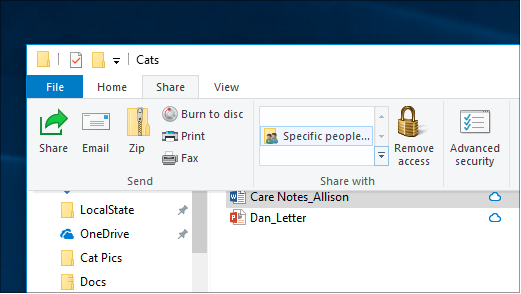
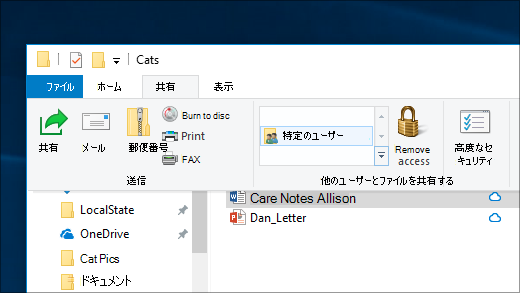
commit translated contents

diff --git a/AlchemyInsights/double-clicking-an-office-file-fails-to-open-it.md b/AlchemyInsights/double-clicking-an-office-file-fails-to-open-it.md
@@ -1,5 +1,5 @@
 ---
-title: Office ファイルをダブルクリックしても開くことができない
+title: Office ファイルをダブルクリックしても開かない
 ms.author: pebaum
 author: pebaum
 manager: mnirkhe
@@ -13,17 +13,17 @@ ms.custom:
 - "161"
 ms.openlocfilehash: cd45d64108bc3d7b8f35b51389294f5b8253ba9c
 ms.sourcegitcommit: 6df4460313ca033d18b59669506de1dbb7482ef9
-ms.translationtype: MT
+ms.translationtype: HT
 ms.contentlocale: ja-JP
 ms.lasthandoff: 03/10/2020
 ms.locfileid: "42575401"
 ---
-# <a name="double-clicking-an-office-file-fails-to-open-it"></a>Office ファイルをダブルクリックしても開くことができない
+# <a name="double-clicking-an-office-file-fails-to-open-it"></a>Office ファイルをダブルクリックしても開かない
 
-Office ファイルをダブルクリックすると、プログラムが開かれているように見えますが、ファイル自体は開かれません。 または、「プログラムにコマンドを送信するときに問題が発生しました」というエラーが表示されることがあります。 これには多くの原因がありますが、最も一般的なソリューションは次の2つです。
+Office ファイルをダブルクリックしたあとで、プログラムは開くことができても、ファイル自体が開かないことがあります。 または、「プログラムにコマンドを送信しているときに、エラーが発生しました。」というエラーが表示されることがあります。 これらは多くの原因が考えられますが、一般的な解決策は次の 2 つです。
 
-- Excel で、[DDE] オプションがオフになっていることを確認します。 このオプションを確認するには、新しいブックを作成し、[**ファイル > オプション > Advanced**を選択します。 **[全般**] セクションで、[**動的データ交換 (DDE) を使用している他のアプリケーションを無視**する] をオフにします。
+- Excel で、DDE オプションがオフになっていることを確認します。 このオプションを確認するには、新しいブックを作成し、**[ファイル] > [オプション] > [詳細設定]** を選びます。 **[全般]** セクションの **[Dynamic Data Exchange (DDE) を使用する他のアプリケーションを無視する]** をオフにします。
 
-- オンライン修復を実行して、既定の設定を復元します。 Windows の [スタート] ボタンをクリックし、[コントロールパネル] を検索します。 **コントロールパネル**を開き、[**プログラム > プログラムと機能**] に移動します。 [ **Microsoft Office [バージョン]]** を右クリックし、[ **Change > Online Repair**] を選択します。
+- オンライン修復を実行して、既定の設定を復元します。 Windows の [スタート] ボタンをクリックし、[コントロール パネル] を検索します。 **[コントロール パネル]** を開き、**[プログラム] > [プログラムと機能]** に移動します。 次に、**Microsoft Office [バージョン]** を右クリックし、**[変更] > [オンライン修復]** を選択します。
 
-これらのソリューションのいずれも機能しない場合は、ソリューションの完全な一覧については、「サポート」の記事「 [Office ファイルをダブルクリックしても開く](https://support.office.com/article/Double-clicking-an-Office-file-fails-to-open-it-1e9c0ad9-34c8-4440-a42e-d30186b29ed6)ことができない」を参照してください。
+これらの方法で解決しない場合は、サポート記事「[Office ファイルをダブルクリックしても開かない](https://support.office.com/article/Double-clicking-an-Office-file-fails-to-open-it-1e9c0ad9-34c8-4440-a42e-d30186b29ed6)」の中から解決策をお探しください。

diff --git a/AlchemyInsights/use-fingerprint-unlock-option-in-windows.md b/AlchemyInsights/use-fingerprint-unlock-option-in-windows.md
@@ -1,0 +1,55 @@
+---
+title: Windows 10 で指紋ロック解除オプションを使う
+ms.author: pebaum
+author: pebaum
+manager: mnirkhe
+ms.audience: Admin
+ms.topic: article
+ROBOTS: NOINDEX, NOFOLLOW
+localization_priority: Normal
+ms.collection: Adm_O365
+ms.custom:
+- "9001689"
+- "3765"
+ms.openlocfilehash: 8a5059c722c306ad79811140062cec7f52f31766
+ms.sourcegitcommit: 00e4266575438f55bdc18db05ed54aafcb75a3c9
+ms.translationtype: HT
+ms.contentlocale: ja-JP
+ms.lasthandoff: 03/11/2020
+ms.locfileid: "42592571"
+---
+# <a name="use-fingerprint-unlock-option-in-windows-10"></a>Windows 10 で指紋ロック解除オプションを使う
+
+**Windows Hello 指紋認証を有効にする**
+
+指紋を使用して Windows 10 のロックを解除するには、Windows Hello 指紋認証を設定する必要があります。これには少なくとも 1 本の指を追加 (Windows に登録) します。 
+
+1. **[設定] > [アカウント] > [サインイン オプション]** に移動します (または[こちら](ms-settings:signinoptions?activationSource=GetHelp)をクリックします)。 利用可能なサインイン オプションが表示されます。 例:
+
+    ![サインイン オプション。](media/sign-in-options.png)
+
+2. **[Windows Hello 指紋認証]** をクリックまたはタップし、次に **[設定]** をクリックします。 Windows Hello 設定ウィンドウで、**[開始する]** をクリックします。 指紋センサーがアクティブになり、このセンサーに指を合わせるように求められます。
+
+   ![指紋センサー。](media/fingerprint-sensor.png)
+
+3. 指示に従って、指を繰り返しスキャンします。 これが完了したら、サインインに使用する可能性がある他の指を追加するオプションが表示されます。 次回 Windows 10 にサインインするときには、指紋を利用してサインインできます。
+
+**サインイン オプションとして、Windows Hello 指紋認証が利用できない**
+
+Windows Hello 指紋認証が**サインイン オプション**に表示されていない場合は、Windows が PC に接続されている指紋リーダーやスキャナーを認識していないか、システム ポリシーがその利用を認めていないということです (たとえば、PC が職場で管理されている場合など)。 トラブルシューティング: 
+
+1. タスク バーの **[スタート]** ボタンを選択し、**[デバイス マネージャー]** を探します。
+
+2. クリックまたはタップし、**[デバイス マネージャー]** を開きます。
+
+3. [デバイス マネージャー] で、シェブロンをクリックして [生体認証デバイス] を展開します。
+
+   ![生体認証デバイス。](media/biometric-devices.png)
+
+4. 指紋スキャナーが生体認証デバイス (Synaptics WBDI スキャナーなど) に表示されているはずです。
+
+   ![生体認証デバイス。](media/biometric-devices-expanded.png)
+
+5. 指紋スキャナーが表示されず、スキャナーが PC に統合されている場合は、PC の製造元の Web サイトを参照してください。 PC モデルの [テクニカル サポート] セクションで、インストール可能なスキャナー用の Windows 10 ドライバーを検索します。
+
+6. スキャナーが PC と別の場合 (USB で接続されている場合) は、スキャナーの製造元の Web サイトに移動して、使用しているスキャナー モデルの Windows 10 デバイス ドライバー ソフトウェアを見つけてインストールします。

diff --git a/AlchemyInsights/sign-in to-windows-10-without-a-password.md b/AlchemyInsights/sign-in to-windows-10-without-a-password.md
@@ -1,0 +1,47 @@
+---
+title: パスワードを使用しないで Windows 10 にサインインする
+ms.author: pebaum
+author: pebaum
+manager: mnirkhe
+ms.audience: Admin
+ms.topic: article
+ROBOTS: NOINDEX, NOFOLLOW
+localization_priority: Normal
+ms.collection: Adm_O365
+ms.custom:
+- "9001690"
+- "3766"
+ms.openlocfilehash: 1f325eb7afb1e88457296e8187f8ba6dff2ebfe0
+ms.sourcegitcommit: 00e4266575438f55bdc18db05ed54aafcb75a3c9
+ms.translationtype: HT
+ms.contentlocale: ja-JP
+ms.lasthandoff: 03/11/2020
+ms.locfileid: "42592570"
+---
+# <a name="sign-in-to-windows-10-without-using-a-password"></a>パスワードを使用しないで Windows 10 にサインインする
+
+Windows の起動時にパスワードを入力する必要がないようにするためには、PIN、顔認識、指紋などの Windows Hello の安全なサインイン オプションを使用することをお勧めします。 安全なサインインを無効にするには、以下の「Windows 10 に自動的にサインインする」の手順をご覧ください。
+
+**アカウント パスワードに代わる Windows Hello の安全な代替機能**
+
+**[設定] > [アカウント] > [サインイン オプション]** に移動します (または[こちら](ms-settings:signinoptions?activationSource=GetHelp)をクリックします)。 利用可能なサインイン オプションが表示されます。 例:
+
+![サインイン オプション。](media/sign-in-options.png)
+
+いずれかをクリックまたはタップして、オプションを構成します。 次に Windows を起動またはロック解除するときより、パスワードに代わって新しいオプションを利用できるようになります。 
+
+**Windows 10 に自動的にサインインする**
+
+**注**: 自動サインインは便利ですが、複数の人物が PC にアクセスできる場合は、セキュリティ上のリスクが生じます。 
+
+1. タスクバーの **[スタート]** ボタンをクリックまたはタップします。
+
+2. **netplwiz** と入力して Enter キーを押し、[ユーザー アカウント] ウィンドウを開きます。
+
+3. **[ユーザー アカウント]** で、Windows の起動時に自動的にサインインするアカウントをクリックします。
+
+4. 「ユーザーがこのコンピューターを使うには、ユーザー名とパスワードの入力が必要」のチェックボックスをオフにします。
+
+    ![ユーザーは、ユーザー名とパスワード オプションを入力する必要があります。](media/users-must-enter-username.png)
+
+5. **[OK]** をクリックします。 選択したアカウントのパスワードを入力するように求められます。 **[OK]** をクリックして終了します。 次回 Windows 10 を起動すると、選択したアカウントに自動的にサインインします。

diff --git a/AlchemyInsights/sharepoint-task-calendar-events-modern-ui.md b/AlchemyInsights/sharepoint-task-calendar-events-modern-ui.md
@@ -1,5 +1,5 @@
 ---
-title: モダン UI のタスクとカレンダーのイベントリスト
+title: モダン UI でのタスクと予定表のイベント リスト
 ms.author: v-miegge
 author: v-miegge
 ms.audience: Admin
@@ -13,17 +13,17 @@ ms.custom:
 - "2627"
 ms.openlocfilehash: c92510a6a4f23e9c4524d08a3f567d0b6ba5d61a
 ms.sourcegitcommit: ef2abd2221398dea14e9bdbd19bf6ac3823a5f9b
-ms.translationtype: MT
+ms.translationtype: HT
 ms.contentlocale: ja-JP
 ms.lasthandoff: 03/10/2020
 ms.locfileid: "42575395"
 ---
-# <a name="task-and-calendar-event-list-in-modern-ui"></a>モダン UI のタスクとカレンダーのイベントリスト
+# <a name="task-and-calendar-event-list-in-modern-ui"></a>モダン UI でのタスクと予定表のイベント リスト
 
-モダンビューで表示しようとしたときに、タスク`< ID >_.000`とイベントのリストに "Title" と表示されると、エラーが表示されることがあります。
+タスクとイベント リストをモダン ビューでレンダリングしようとしたときに、タスクとイベント リストの「タイトル」の表示にエラーが `< ID >_.000` として表示される場合があります。
 
-リストやライブラリの中には、タスクリストやイベントリストなどのモダンユーザーインターフェイスに表示されないものがあります。
+リストやライブラリの中には、モダン ユーザー インターフェイスに表示するのに必要なビルドが現時点では完了していないものが存在します。例としては、タスク リストやイベント リストなどです。
 
-重要なアイテムの1つは、モダン UX の一部としてタスクとイベントのリストをサポートすることです。 ただし、このサポートのための ETA は提供されていません。そのため、これらのリストに対しては従来の環境を引き続き使用してください。
+Microsoft では、タスクおよびイベント リストを、モダン UX の一部としてサポートすることを優先したいと考えています。 ただし、このサポートに ETA はありませんので、これらのリストについては引き続きクラシック エクスペリエンスをご利用ください。
 
-詳細については、「[モダンリストとライブラリを最大限](https://docs.microsoft.com/sharepoint/dev/transform/modernize-userinterface-lists-and-libraries)に活用する」を参照してください。
+詳細については、「[モダン リストとモダン ライブラリを最大限に利用する](https://docs.microsoft.com/sharepoint/dev/transform/modernize-userinterface-lists-and-libraries)」を参照してください。

diff --git a/AlchemyInsights/view-wi-fi-network-password-in-windows.md b/AlchemyInsights/view-wi-fi-network-password-in-windows.md
@@ -1,0 +1,40 @@
+---
+title: Windows 10 で Wi-Fi ネットワーク パスワードを表示する
+ms.author: pebaum
+author: pebaum
+manager: mnirkhe
+ms.audience: Admin
+ms.topic: article
+ROBOTS: NOINDEX, NOFOLLOW
+localization_priority: Normal
+ms.collection: Adm_O365
+ms.custom:
+- "9001467"
+- "3767"
+ms.openlocfilehash: 26ae276bdb1c12eb96832fdbf9d243ddc1ed0250
+ms.sourcegitcommit: d925c1fd1be35071cd422b9d7e5ddd6c700590de
+ms.translationtype: HT
+ms.contentlocale: ja-JP
+ms.lasthandoff: 03/10/2020
+ms.locfileid: "42592559"
+---
+# <a name="view-wi-fi-network-password-in-windows-10"></a>Windows 10 で Wi-Fi ネットワーク パスワードを表示する
+
+1. Windows 10 PC が Wi-Fi ネットワークに接続されていることを確認します。
+
+2. **[設定] > [ネットワークとインターネット] > [状態]** に移動するか、[こちら](ms-settings:network?activationSource=GetHelp)をクリックまたはタップして移動します。
+
+3. **[ネットワークと共有センター]** をクリックします。
+
+    ![ネットワークと共有センター。](media/network-sharing-center.png)
+
+4. **[ネットワークと共有センター]** の **[接続]** の横に、ご使用中のワイヤレス ネットワークの名前が表示されます。 たとえば、ネットワークが "ABC123" という名前なら、次のように表示されます。
+
+    ![ネットワーク接続。](media/network-connections.png)
+
+    ワイヤレス ネットワーク名をクリックして、[Wi-Fi の状態] ウィンドウを開きます。 
+
+5. [Wi-Fi の状態] ウィンドウで、**[ワイヤレスのプロパティ]** をクリックします。**[セキュリティ]** タブをクリックして、**[パスワードの文字を表示する]** をオンにします。
+
+    ![Wi-Fi パスワードの文字を表示する。](media/show-password-characters.png)
+

diff --git a/AlchemyInsights/fix-display-language-of-apps.md b/AlchemyInsights/fix-display-language-of-apps.md
@@ -1,0 +1,29 @@
+---
+title: アプリの表示言語を修正する
+ms.author: pebaum
+author: pebaum
+manager: mnirkhe
+ms.audience: Admin
+ms.topic: article
+ROBOTS: NOINDEX, NOFOLLOW
+localization_priority: Normal
+ms.collection: Adm_O365
+ms.custom:
+- "9001477"
+- "3508"
+ms.openlocfilehash: 07dc04b7b79017da6b2a195077722108a945b967
+ms.sourcegitcommit: d925c1fd1be35071cd422b9d7e5ddd6c700590de
+ms.translationtype: HT
+ms.contentlocale: ja-JP
+ms.lasthandoff: 03/10/2020
+ms.locfileid: "42592563"
+---
+# <a name="fix-the-display-language-of-apps"></a>アプリの表示言語を修正する
+
+Windows 10 の表示言語を変更した後にアプリを開いた場合、以前の言語が使用されていることがあります。 これは、その言語のアプリの新しいバージョンをストアからダウンロードする必要があるためです。 この問題を解決するには、自動更新を待つか、更新されたバージョンのアプリを手動でインストールしてください。
+
+更新プログラムを手動でインストールするには、**[Microsoft Store]** を開き、右上隅にある **[ダウンロードと更新]** をクリックします。 次に、**[最新情報を取得する]** をクリックします。 更新の完了後に言語が変更されない場合は、PC を再起動してください。
+
+![最新情報を取得します。](media/get-updates.png)
+
+入力と表示言語の設定の詳細については、「[Windows 10 で入力および表示の言語設定を管理する](https://support.microsoft.com/help/4027670/windows-10-add-and-switch-input-and-display-language-preferences)」を参照してください。

diff --git a/AlchemyInsights/contact-us-by-clicking-the-headphone-button.md b/AlchemyInsights/contact-us-by-clicking-the-headphone-button.md
@@ -1,0 +1,27 @@
+---
+title: ヘッドフォン ボタンをクリックして問い合わせる
+ms.author: pebaum
+author: pebaum
+manager: mnirkhe
+ms.audience: Admin
+ms.topic: article
+ROBOTS: NOINDEX, NOFOLLOW
+localization_priority: Normal
+ms.collection: Adm_O365
+ms.custom:
+- "3494"
+- "9001472"
+ms.openlocfilehash: 49365a139a97ebde1b1c0c3db710b5b03cfb8738
+ms.sourcegitcommit: d925c1fd1be35071cd422b9d7e5ddd6c700590de
+ms.translationtype: HT
+ms.contentlocale: ja-JP
+ms.lasthandoff: 03/10/2020
+ms.locfileid: "42592560"
+---
+# <a name="contact-us-by-clicking-the-headphone-button"></a>ヘッドフォン ボタンをクリックして問い合わせる
+
+Microsoft サポートには、このアプリの左下隅にある **[お問い合わせ]** をクリックしてお問い合わせください。 フライアウト ウィンドウでは、製品と問題のカテゴリを選択した後に、適切なサポート チャネルにご案内します。
+
+![ヘッドフォン アイコンをクリックしてお問い合わせください。](media/contact-us-headphone-icon.png)
+
+お問い合わせセッションを開始した後でも、アプリの残りの機能を操作することができます。 お問い合わせパネルは、アプリ内の任意の場所をクリックして一時的に最小化することができます。 同じセッションに戻るには、再度 **[お問い合わせ]** をクリックしてください。
